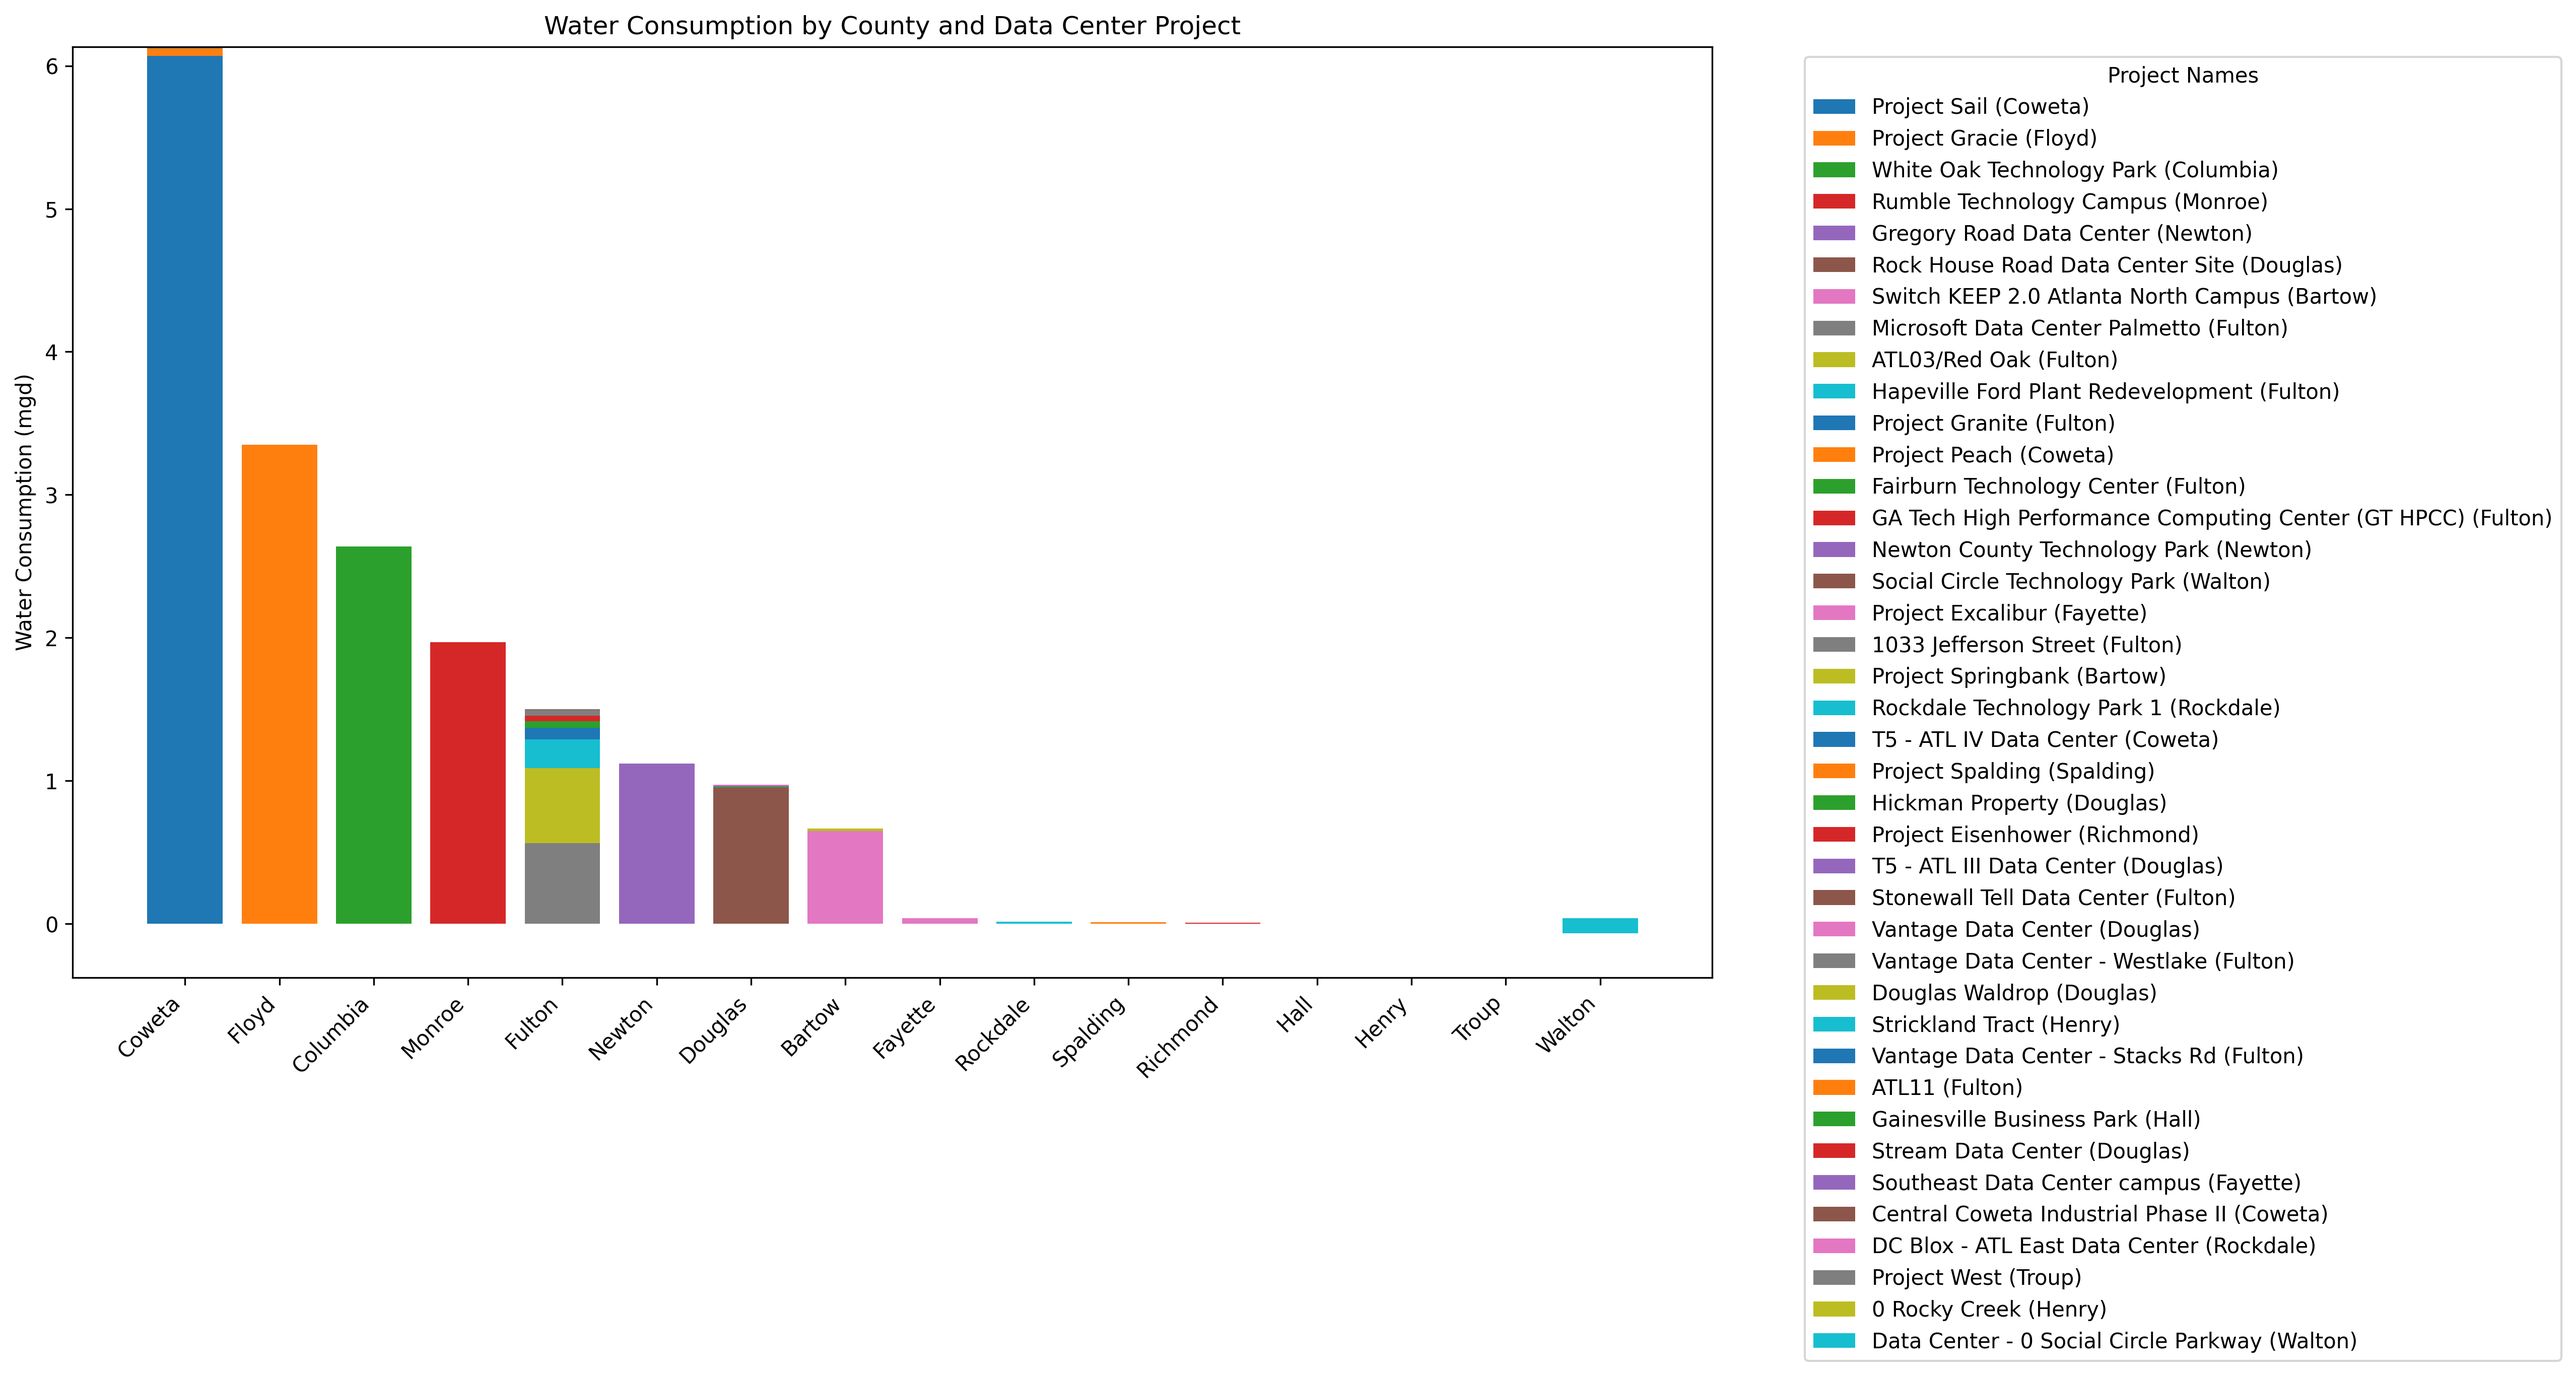
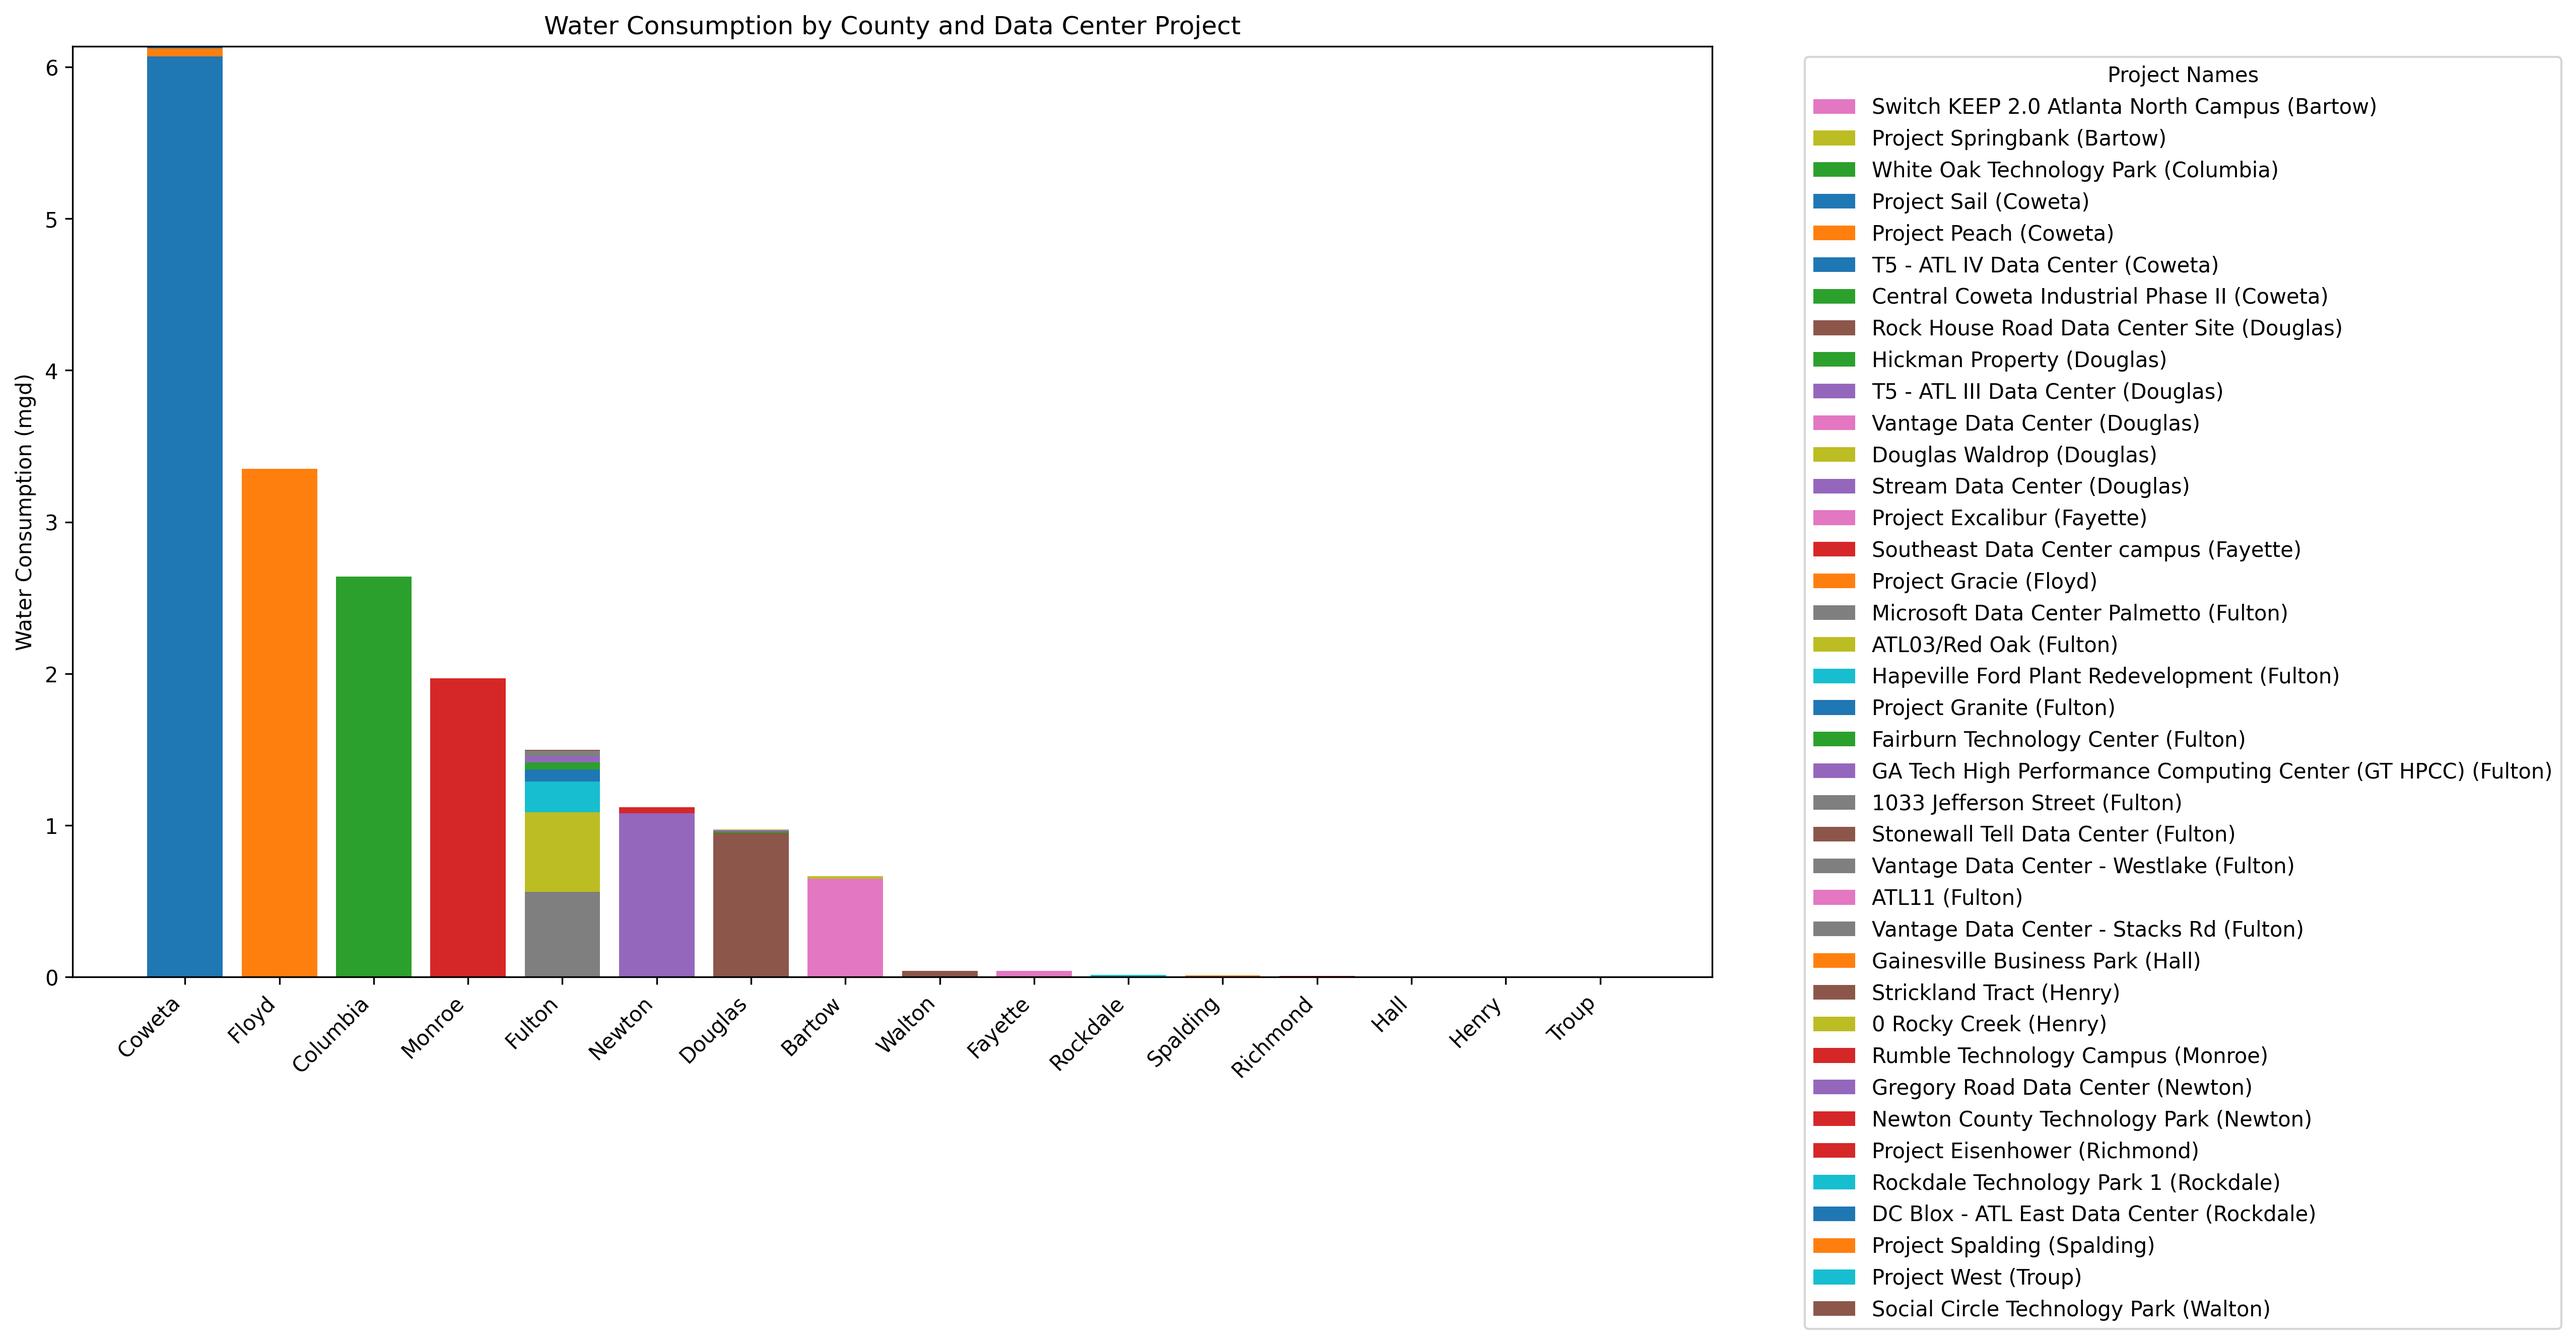
Updated bar chart

diff --git a/scripts/water_data_visualizations.py b/scripts/water_data_visualizations.py
@@ -146,7 +146,8 @@ def plot_stacked_bar_by_county():
     df["Water Consumption/Loss"] = pd.to_numeric(df["Water Consumption/Loss"], errors="coerce")
     #df["Water Consumption/Loss"] = df["Water Consumption/Loss"].fillna(0)
     df = df.dropna(subset=["Water Consumption/Loss"])
-
+    df = df[df["Water Consumption/Loss"] > -0.0001]
+    #data = data[data > 0]
     # Aggregate total water consumption per county to get sorting order
     county_totals = df.groupby("County")["Water Consumption/Loss"].sum().sort_values(ascending=False)
     sorted_counties = county_totals.index.tolist()
@@ -178,21 +179,35 @@ def plot_stacked_bar_by_county():
         counties_str = ", ".join(counties)
         ax.bar(pivot.index, values, bottom=bottom, label=f"{project} ({counties_str})")
         bottom += values
+    
+    handles, labels = ax.get_legend_handles_labels()
+    sorted_items = sorted(zip(labels, handles), key=lambda x: extract_county(x[0]))
+    sorted_labels, sorted_handles = zip(*sorted_items)
 
 
     # Formatting
     ax.set_xticklabels(pivot.index, rotation=90)
     ax.set_ylabel("Water Consumption (mgd)")
     ax.set_title("Water Consumption by County and Data Center Project")
-    ax.legend(title="Project Names", bbox_to_anchor=(1.05, 1), loc='upper left')
+    ax.legend(sorted_handles, sorted_labels, title="Project Names", bbox_to_anchor=(1.05, 1), loc='upper left')
+    total_projects = len(df)
     plt.setp(ax.xaxis.get_majorticklabels(), rotation=45, ha='right', fontsize=10)
+    #plt.figtext(0.5, 0.02, f'Total Projects: {total_projects}',ha='center', fontsize=10, style='italic')
     #plt.tight_layout()
     #plt.show()
     folder = "visualizations"
     os.makedirs(folder, exist_ok=True)
     plt.savefig(os.path.join(folder, "data_center_water_data_bar_chart_matplotlib.png"), dpi=300, bbox_inches='tight')
 
-def plot_monthly_submission_timeline():
+# Sort legend labels alphabetically by county (extracted from "Project Name (County)")
+def extract_county(label):
+    try:
+        return label.split("(")[-1].rstrip(")").strip()
+    except IndexError:
+        return ""
+
+
+def plot_quarterly_submission_timeline():
     script_dir = Path(__file__).resolve().parent
     data_center_path = script_dir.parent / "data" / "data_center.csv"
     df = pd.read_csv(data_center_path)
@@ -676,4 +691,4 @@ plot_water_consumption_histogram()
 
 plot_water_consumption_log_histogram()
 
-plot_monthly_submission_timeline()
+plot_quarterly_submission_timeline()
